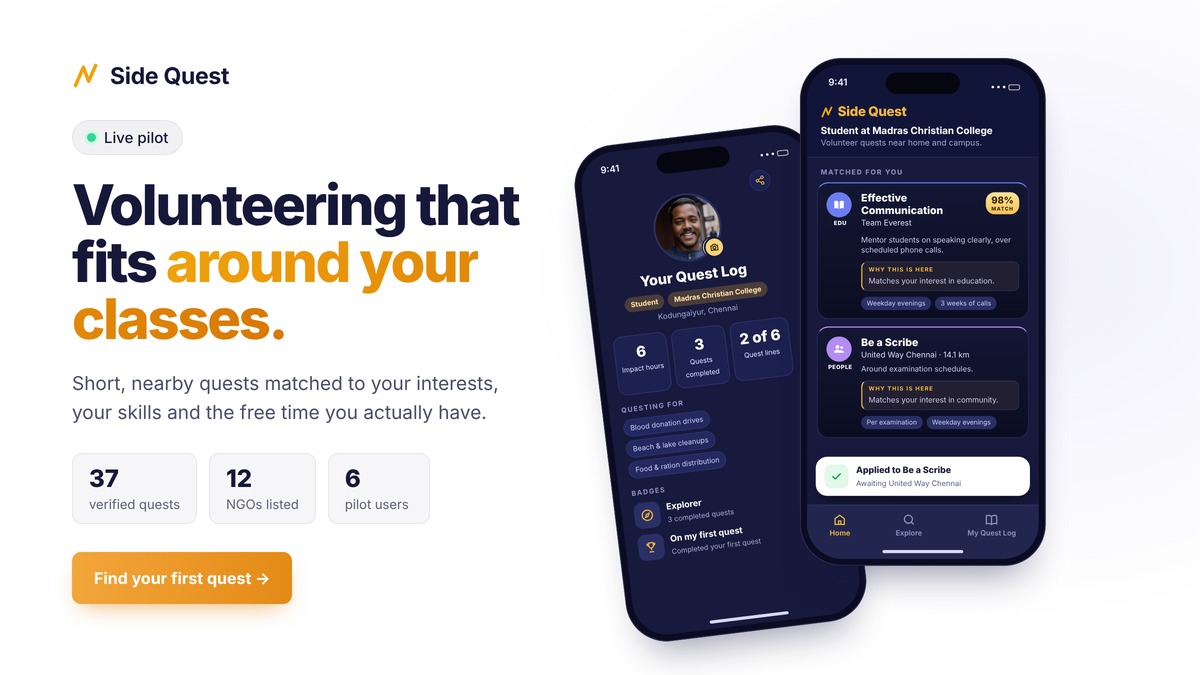
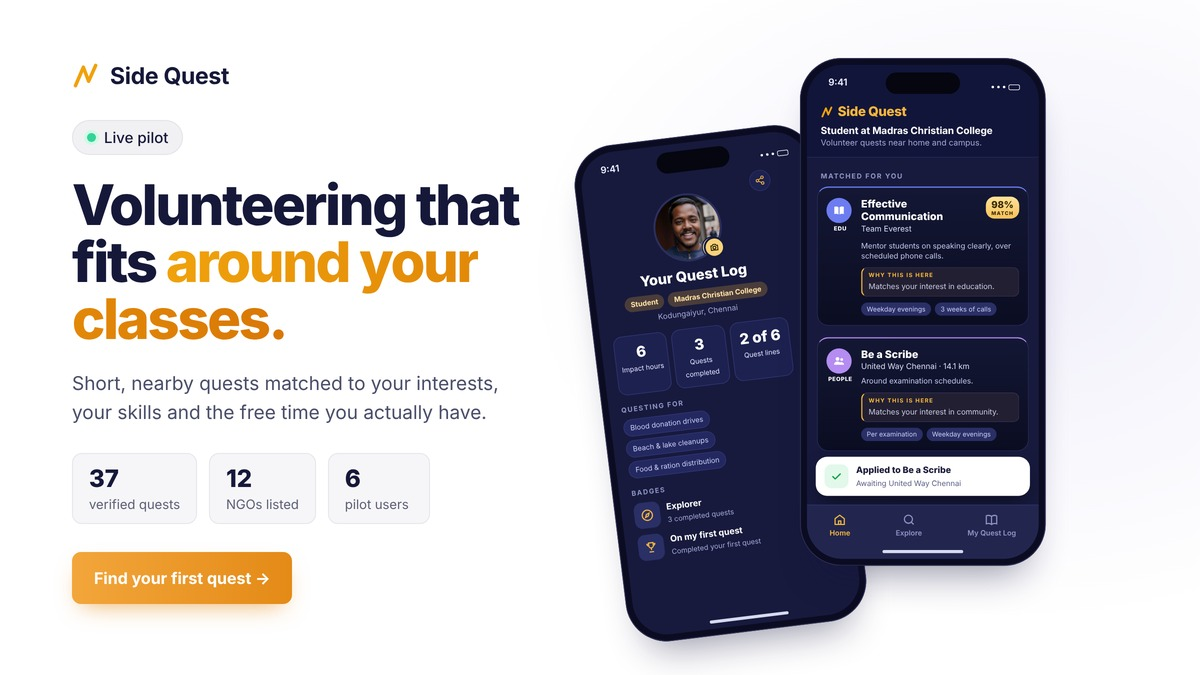
Tighten Side Quest cover spacing above the notification
Claude-Session: https://claude.ai/code/session_013DHFwZEtvJyBquT7r9TggA

Changed region(s): [[0.6783, 0.2489, 0.8633, 0.6844]]

diff --git a/index.html b/index.html
@@ -91,7 +91,7 @@
             </div>
           </a>
           <a class="pj" href="/work/side-quest/">
-            <div class="pj-cover"><span class="pj-badge" style="--bx:35%;--by:13%">Buildathon top 5</span><img src="/assets/covers/side-quest.jpg?v=5" width="1200" height="675" alt="Side Quest showcase: the Quests for you feed matched to free time, a student quest log, and a joined-quest confirmation" loading="lazy"><span class="pj-mark">HelloPM</span></div>
+            <div class="pj-cover"><span class="pj-badge" style="--bx:35%;--by:13%">Buildathon top 5</span><img src="/assets/covers/side-quest.jpg?v=6" width="1200" height="675" alt="Side Quest showcase: the Quests for you feed matched to free time, a student quest log, and a joined-quest confirmation" loading="lazy"><span class="pj-mark">HelloPM</span></div>
             <div class="pj-body">
               <h4 class="pj-title">Side Quest <span>Student volunteering</span></h4>
               <div class="pj-tags"><span class="tag t-rose">Live pilot</span><span class="tag t-blue">Matching platform</span><span class="tag t-gold">Civic tech</span><span class="tag t-green">Built solo</span><span class="tag t-blue">HelloPM</span></div>
